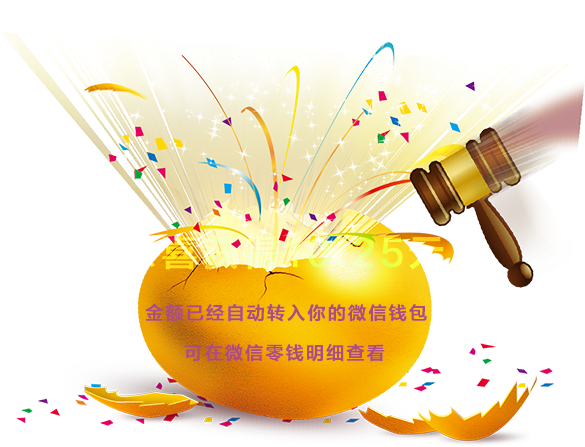
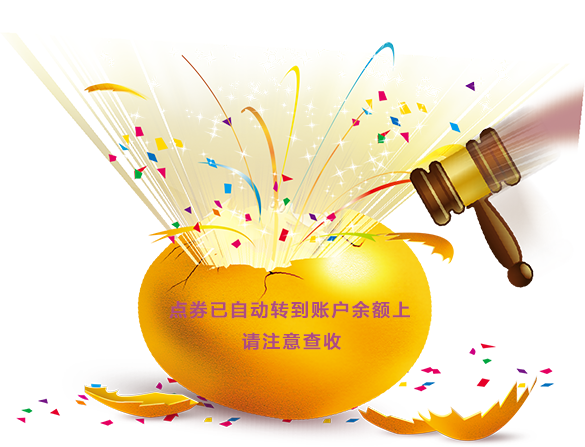
完善功能

diff --git a/src/main/java/com/bbc/action/CashManageAction.java b/src/main/java/com/bbc/action/CashManageAction.java
@@ -1,0 +1,92 @@
+package com.bbc.action;
+
+import com.bbc.contants.ContantKey;
+import com.bbc.entity.Cash;
+import com.bbc.entity.User;
+import com.bbc.entity.bo.Data;
+import com.bbc.service.CashService;
+import com.bbc.service.HongBaoService;
+import com.bbc.service.UserService;
+import com.bbc.util.*;
+import org.springframework.beans.factory.annotation.Autowired;
+import org.springframework.stereotype.Controller;
+import org.springframework.web.bind.annotation.RequestMapping;
+import org.springframework.web.bind.annotation.ResponseBody;
+
+import javax.servlet.http.HttpServletRequest;
+import java.math.BigDecimal;
+import java.util.HashMap;
+import java.util.Map;
+import java.util.SortedMap;
+
+@Controller
+@RequestMapping("manage")
+public class CashManageAction {
+
+    @Autowired
+    private CashService cashService;
+    @Autowired
+    private HongBaoService hongBaoService;
+    @Autowired
+    private UserService userService;
+
+    /**
+     * Created by gonglixun on 2016/12/13.
+     * 跳转到网站首页
+     */
+    @RequestMapping(value = "/toList")
+    public String toIndex(HttpServletRequest request, int dataStatus) {
+        Map<String, Object> map = new HashMap<String, Object>();
+        map.put("dataStatus", dataStatus);
+        request.setAttribute("list", cashService.getCashList(map));
+        return "view/manage/list";
+    }
+
+    @RequestMapping(value = "/updateWithDaKuan")
+    public
+    @ResponseBody
+    Data updateWithDaKuan(HttpServletRequest request, int id) {
+        Cash cash = cashService.getCashById(id);
+        if(cash==null){
+            return new Data(202,"parameter is error");
+        }
+        if(cash.getDataStatus()!=1){
+            return new Data(203,"cash is hander");
+        }
+        User user = userService.getUserByParentId(cash.getUserId());
+        if(user==null||user.getId()==0){
+            return new Data(201,"parameter is error");
+        }
+        try {
+            String temp = ClientCustomSSL.clientCustomSLL(ContantKey.mchId, ContantKey.url_3, getXML(OrderUtil.getOrderNo(id), user.getOpenid(), cash.getAmount(), PCAddress.getIpAddress(request)));
+            Map<String,Object> map = new HashMap<String,Object>();
+            map.put("dataStatus",2);
+            map.put("id",id);
+            map.put("userId",cash.getUserId());
+            map.put("remark",temp);
+            cashService.update(map);
+            return new Data(200, "");
+        } catch (Exception e) {
+            Map<String,Object> map = new HashMap<String,Object>();
+            e.printStackTrace();
+            map.put("id",id);
+            map.put("userId",cash.getUserId());
+            map.put("remark",e.getMessage());
+            map.put("dataStatus",2);
+            cashService.update(map);
+            return new Data(200, "");
+        }
+    }
+
+
+    public static String getXML(String orderNo, String oponid, BigDecimal totalFee, String ip){
+        SortedMap<String,Object> parameters = WXSignUtils.createWeiParameters(orderNo,oponid,totalFee.multiply(new BigDecimal(100)),ip);
+        String sign = WXSignUtils.createSign(ContantKey.chartsset,parameters);
+        parameters.put("sign",sign);
+        String xml = HttpXmlUtils.xmlInfoMap(parameters);
+        System.out.println(xml);
+        return xml;
+    }
+
+
+}

diff --git a/src/main/java/com/bbc/action/IndexAction.java b/src/main/java/com/bbc/action/IndexAction.java
@@ -2,10 +2,12 @@ package com.bbc.action;
 
 import com.alibaba.fastjson.JSON;
 import com.bbc.contants.ContantKey;
+import com.bbc.entity.Cash;
 import com.bbc.entity.Orders;
 import com.bbc.entity.User;
 import com.bbc.entity.WX;
 
+import com.bbc.service.CashService;
 import com.bbc.service.HongBaoService;
 import com.bbc.service.OrdersService;
 import com.bbc.service.UserService;
@@ -20,6 +22,9 @@ import org.springframework.web.bind.annotation.ResponseBody;
 
 import javax.servlet.http.HttpServletRequest;
 import java.math.BigDecimal;
+import java.util.HashMap;
+import java.util.List;
+import java.util.Map;
 
 @Controller
 @RequestMapping("")
@@ -29,6 +34,8 @@ public class IndexAction {
 	private UserService userService;
 	@Autowired
 	private HongBaoService hongBaoService;
+	@Autowired
+	private CashService cashService;
 	/**
 	 * Created by gonglixun on 2016/12/13.
 	 * 跳转到网站首页
@@ -194,8 +201,18 @@ public class IndexAction {
 	public String toMy(HttpServletRequest req) {
 		User curentUser = (User)req.getSession().getAttribute("user");
 		User user =  userService.getUserByUnionid(curentUser.getUnionid());
+		Map<String,Object> map = new HashMap<String,Object>();
+		map.put("userId",user.getId());
+		map.put("dataStatus",1);
+
+		List<Cash> list1 = cashService.getCashList(map);
+		BigDecimal total = new BigDecimal("0");
+		for (Cash c : list1){
+			total.add(c.getAmount());
+		}
 		System.out.println("=========================="+user.getBalance());
 		req.setAttribute("balance",user.getBalance());
+		req.setAttribute("total",total);
 		return "view/my";
 	}
 

diff --git a/src/main/java/com/bbc/interceptor/UserActInterceptor.java b/src/main/java/com/bbc/interceptor/UserActInterceptor.java
@@ -11,7 +11,7 @@ public class UserActInterceptor implements HandlerInterceptor {
 	@Override
 	public boolean preHandle(HttpServletRequest request,HttpServletResponse response, Object handler) throws Exception {
 		String url = request.getServletPath();
-		if(url.indexOf("toDefault")!=-1||url.indexOf("toserver")!=-1||url.indexOf("back.json")!=-1||url.indexOf("nologin")!=-1){
+		if(url.indexOf("toDefault")!=-1||url.indexOf("toserver")!=-1||url.indexOf("back.json")!=-1||url.indexOf("nologin")!=-1||url.indexOf("manage")!=-1){
 			return true;
 		}else if(url.indexOf("toUser")>-1||url.indexOf("getCode")>-1){
 			return true;

diff --git a/src/main/java/com/bbc/action/PayAction.java b/src/main/java/com/bbc/action/PayAction.java
@@ -206,7 +206,7 @@ public class PayAction extends BaseController {
 			User userBalance = userService.getUserByUnionid(user.getUnionid());
 			if(userBalance.getBalance()==null||userBalance.getBalance().compareTo(new BigDecimal(totalFee))==-1){
 				//用户余额不足
-				return "redirect:/toError/1000.html";
+				return "redirect:/toError/1000.html?balance="+userBalance.getBalance();
 			}
             Orders orders = ordersService.addOrder(attach, new BigDecimal(totalFee), user.getId(),2);
 

diff --git a/src/main/java/com/bbc/dao/CashDao.java b/src/main/java/com/bbc/dao/CashDao.java
@@ -22,9 +22,11 @@ public class CashDao extends BaseDao<Cash>{
 
 
 	public List<Cash> getCashList(Map<String,Object> map){
-		return this.getAllByPage("",map);
+		return this.getAllByPage("CashDao.getCashList",map);
 	}
 
-
+	public Cash getCashById(int id){
+		return this.getInfoById("CashDao.getCashById",id);
+	}
 
 }

diff --git a/src/main/java/com/bbc/service/impl/CashServiceImpl.java b/src/main/java/com/bbc/service/impl/CashServiceImpl.java
@@ -37,4 +37,9 @@ public class CashServiceImpl implements CashService{
     public List<Cash> getCashList(Map<String, Object> map) {
         return cashDao.getCashList(map);
     }
+
+    @Override
+    public Cash getCashById(int id) {
+        return cashDao.getCashById(id);
+    }
 }

diff --git a/src/main/java/com/bbc/service/CashService.java b/src/main/java/com/bbc/service/CashService.java
@@ -17,4 +17,7 @@ public interface CashService {
 
     public List<Cash> getCashList(Map<String,Object> map);
 
+
+    public Cash getCashById(int id);
+
 }
